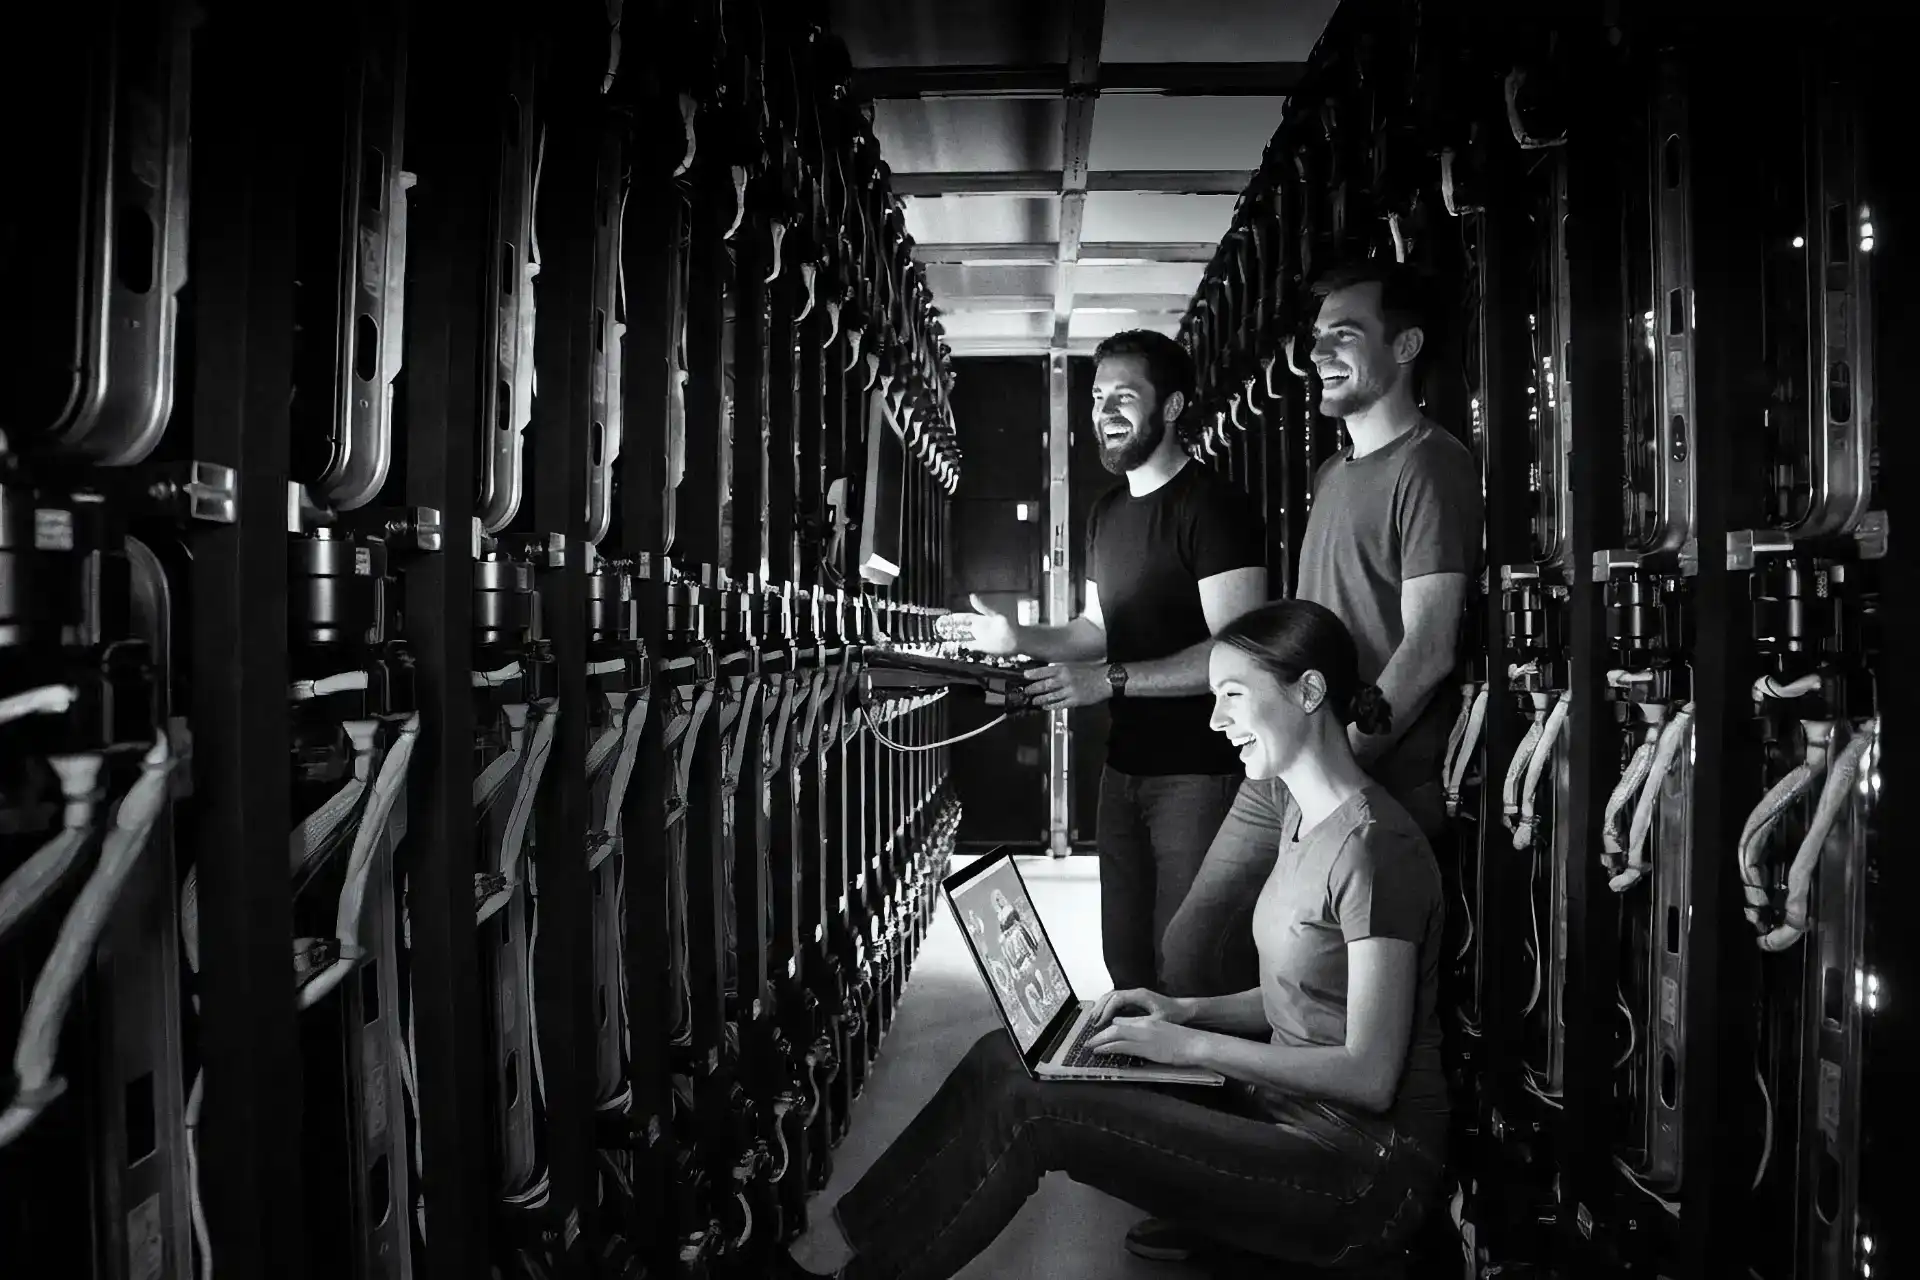
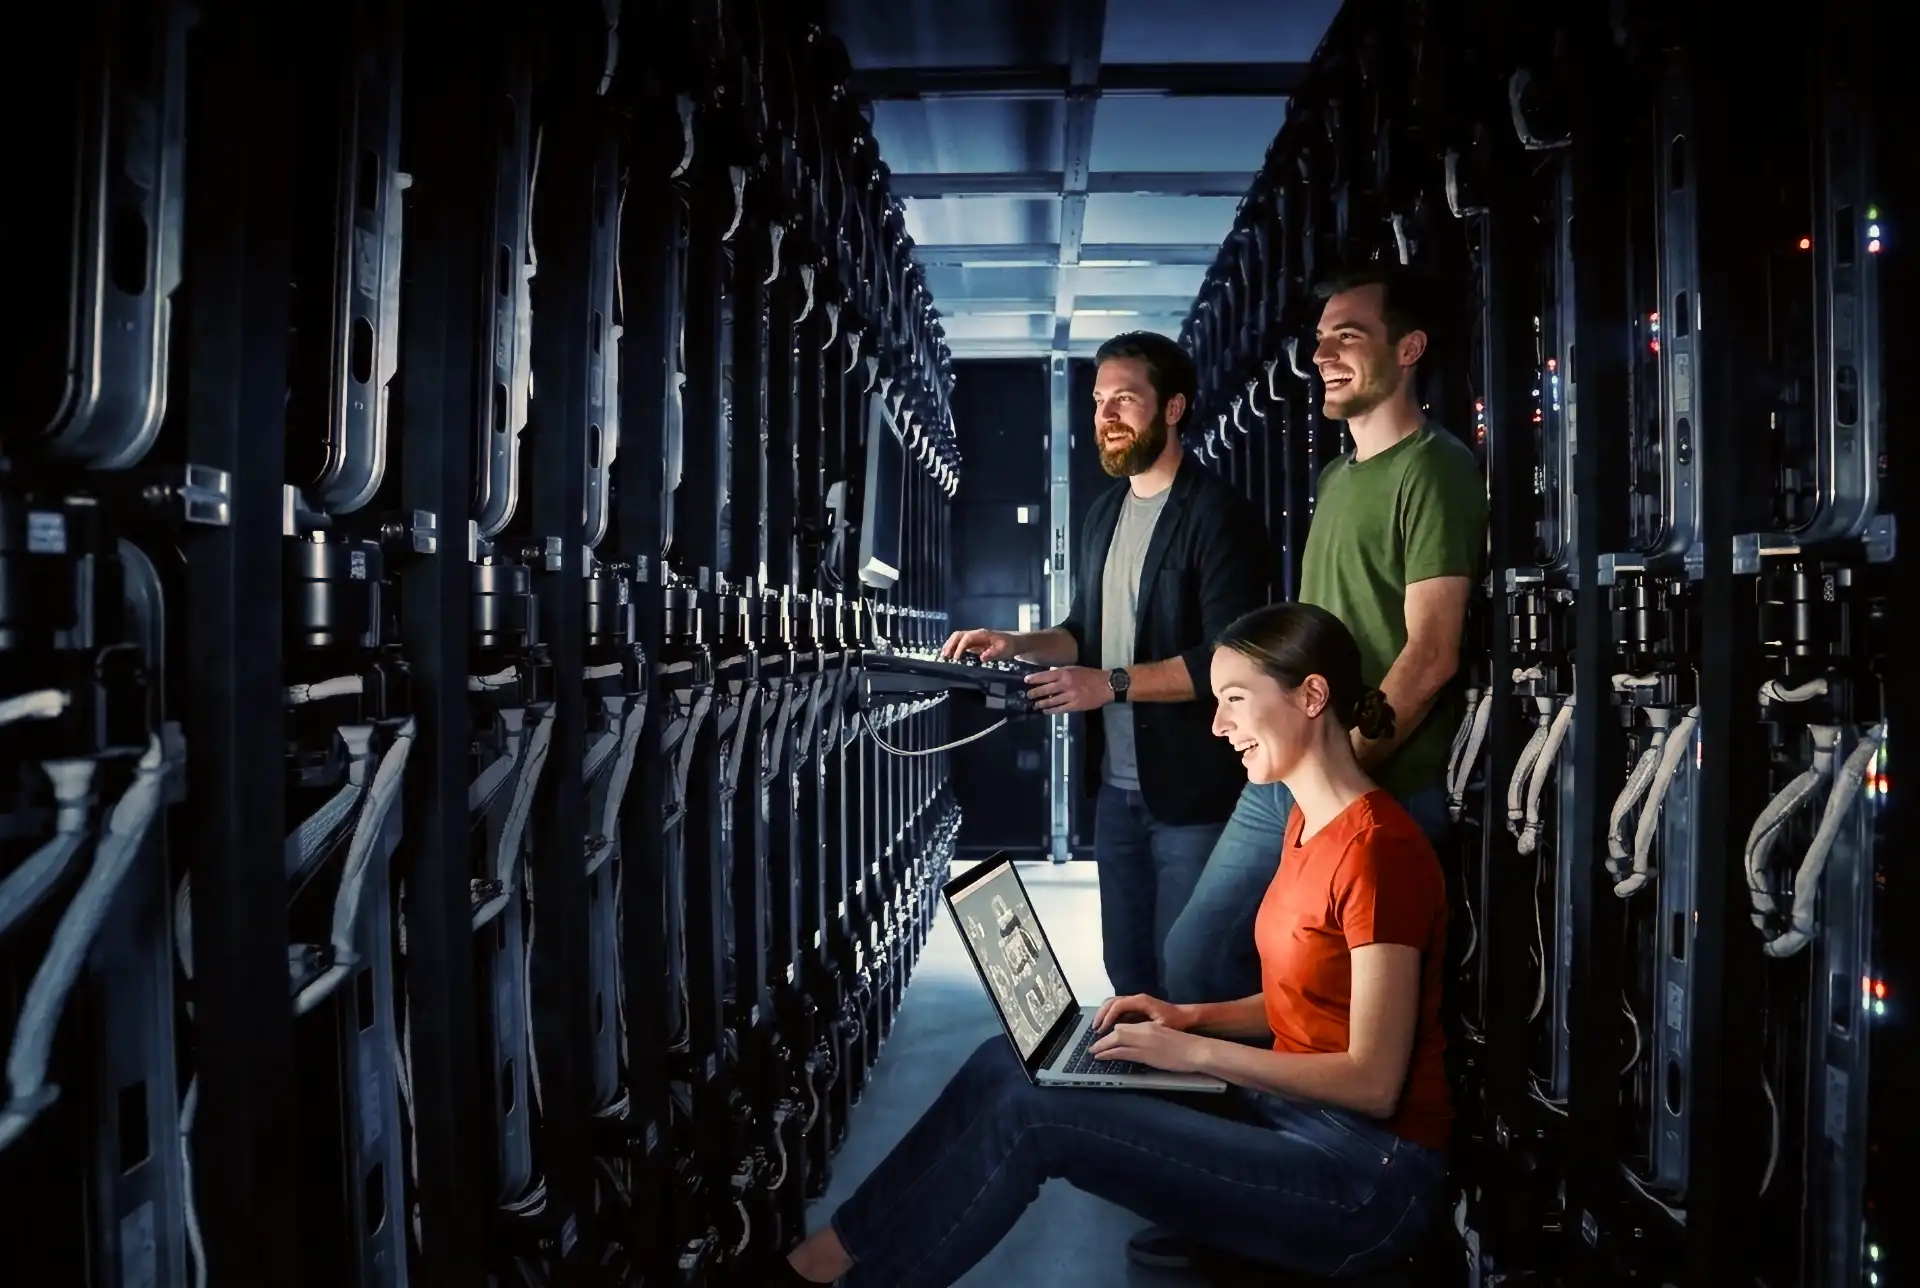
Update hero images (menti2, menti3 only), fix mobile hero fill

diff --git a/public/index.html b/public/index.html
@@ -648,7 +648,7 @@
   <script src="/main.js"></script>
   <script>
     (function() {
-      var images = ['/menti1.webp', '/menti2.webp', '/menti3.webp'];
+      var images = ['/menti2.webp', '/menti3.webp'];
       var randomImage = images[Math.floor(Math.random() * images.length)];
       document.getElementById('hero-bg').src = randomImage;
     })();

diff --git a/public/styles.css b/public/styles.css
@@ -1388,9 +1388,11 @@ section {
   }
 
   .hero-bg {
-    transform: translateX(-10%);
-    width: 110%;
-    max-width: 110%;
+    object-fit: cover;
+    object-position: 80% center;
+    width: 100%;
+    height: 100%;
+    transform: none;
   }
 
   .numbers-grid {
